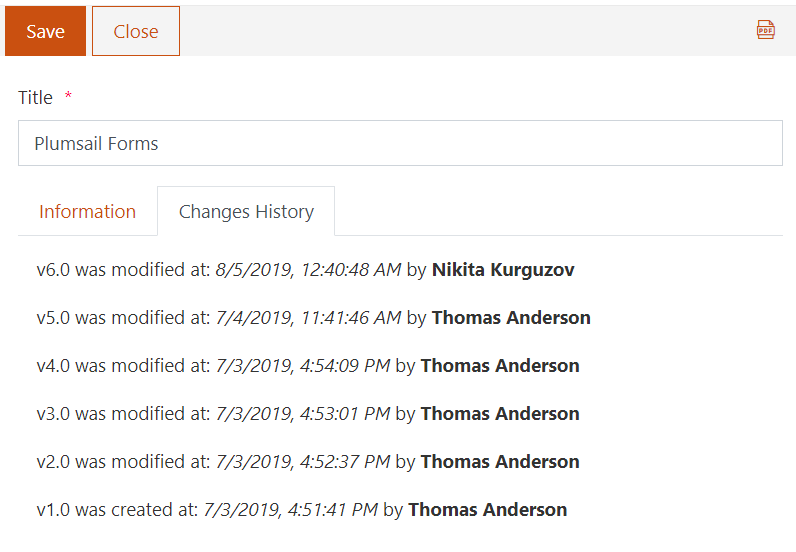
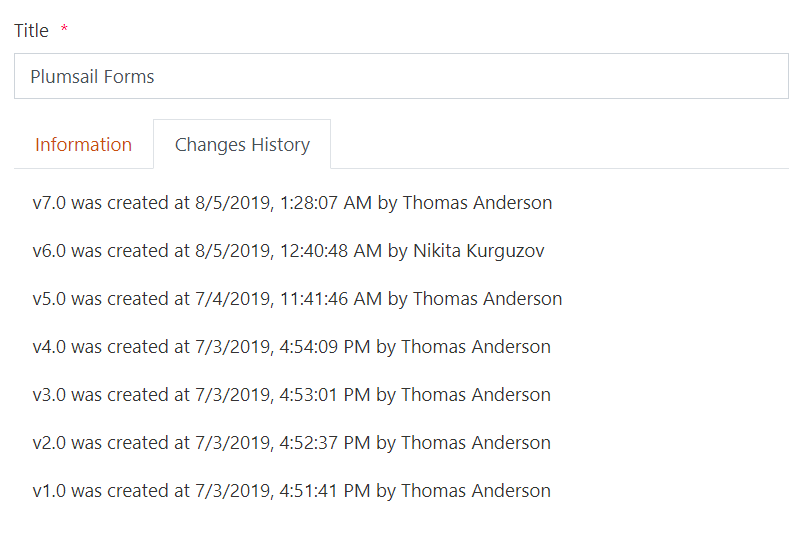
Updated article on VH

diff --git a/SharePoint/how-to/version-history.rst b/SharePoint/how-to/version-history.rst
@@ -1,4 +1,4 @@
-Display version history on the form
+Display version history with Vue components
 =================================================================================================
 
 .. contents:: Contents:
@@ -7,14 +7,9 @@ Display version history on the form
 
 Description
 --------------------------------------------------
-In this article, we'll show you a basic example of how to display version history of an item on the form. You will be able to see who and when modified an item, like this:
+In this article, we'll show you a basic example of how to display version history of an item on the form. You will be able to see who and when modified an item.
 
-|pic0|
-
-.. |pic0| image:: ../images/how-to/version-history/how-to-version-history-0.png
-   :alt: Version history on SharePoint Form
-
-It's also possible to get all the changes info using more advanced JavaScript - more on that later!
+We're also going to showcase Vue components and their potential use.
 
 Form
 --------------------------------------------------
@@ -36,79 +31,106 @@ This HTML control is important - it will contain our Version history, I've used 
 
 .. code-block:: HTML
 
-    <div id='changes'>
-    </div>
+    <version-history />
 
 Copy and paste this code to ensure that the following JS code works for you as well!
 
-JavaScript
+Vue Components
 --------------------------------------------------
-We'll use the following JavaScript code to request all the versions of the current item as soon as it loads, and add a record for each version to our Version history:
+Since our forms are built with Vue.js it's possible to create and mount custom components to the form.
+
+For example, this component will detect who and when made changes to the form and display it in our HTML control:
 
 .. code-block:: javascript
 
-    //listurl and id are retrieved from fd
-    var listUrl = fd.webUrl + fd.listUrl;
-    var id = fd.itemId;
-    fd.spRendered(function(){
-        pnp.sp.web.getList(listUrl)
-        .items.getById(id)
-        .select('*, Versions')
-        .expand('Versions')
-        .get().then(function(results){
-            var versions = results.Versions;
-            for(var i = 0; i < versions.length; i++){
-                var text = "";
-                var currentVersion = versions[i];
-                var label = versions[i].VersionLabel;
-                var date =  "<i>" + new Date(versions[i].Modified).toLocaleString() + "</i>";
-                var editor =  "<b>" + versions[i].Editor.LookupValue + "</b>";
-                if(i == versions.length - 1){
-                    text += "v" + label + " was created at: " + date + " by " + editor;
-                }
-                else{
-                    text += "v" + label + " was modified at: " + date + " by " + editor;
-                }
-                $("#changes").append("<p>" + text +"</p>");
+    Vue.component('version-history', {
+        template: '<div><p v-for="(entry, i) in entries">v{{entry.version}} was created at {{entry.date}} by {{entry.user}}</p></div>',
+        data: function() {
+            return {
+                entries: []
             }
-        });
+        },
+        mounted: function() {
+            var self = this;
+            var listUrl = fd.webUrl + fd.listUrl;
+            var id = fd.itemId;
+            pnp.sp.web.getList(listUrl)
+                .items
+                .getById(id)
+                .versions
+                .get()
+                .then(function(versions){
+                    self.entries = versions.map(function(v) {
+                        return {
+                            version: v.VersionLabel,
+                            date: new Date(v.Modified).toLocaleString(),
+                            user: v.Editor.LookupValue
+                        }
+                    })
+                });	
+        }
     });
 
-This code also pulls information about all the fields, so if you need more data, for example, what fields were changed and what exactly the changes were - that's also doable!
+If you place this code inside JS editor it will automatically mount the component on form load, getting the result like this:
 
-Field value change
+|pic0|
+
+.. |pic0| image:: ../images/how-to/version-history/how-to-version-history-0.png
+   :alt: Version history on SharePoint Form
+
+Field values change
 ************************************************
-The following code will not only detect version change, but will also check Description field for changes, and if it was changed - will display the change:
+The following component will check fields for changes, and if any of observed fields had changed - will display so:
 
 .. code-block:: javascript
 
-    var listUrl = fd.webUrl + fd.listUrl;
-    var id = fd.itemId;
-    fd.spRendered(function(){
-        pnp.sp.web.getList(listUrl)
-        .items.getById(id)
-        .select('*, Versions')
-        .expand('Versions')
-        .get().then(function(results){
-            var versions = results.Versions;
-            for(var i = 0; i < versions.length; i++){
-                var text = "";
-                var currentVersion = versions[i];
-                var label = versions[i].VersionLabel;
-                var description = versions[i].Description;
-                if(i == versions.length - 1){
-                    text += "v" + label + " was created";
-                    text += " - Description: " + description;
-                }
-                else{
-                    text += "v" + label + " was modified";
-                    if(description != versions[i + 1].Description){
-                        text += " - New description: " + description;
-                    }
-                }
-                $("#changes").append("<p>" + text +"</p>");
+    var observableFields = ['Title', 'VersionNumber', 'Description', 'Tags'];
+
+    Vue.component('version-history', {
+        template: '<div><p v-for="(entry, i) in entries">{{entry.user}} modified {{entry.fields}} at {{entry.date}}</p></div>',
+        data: function() {
+            return {
+                entries: []
             }
-        });
+        },
+        mounted: function() {
+            var self = this;
+            var listUrl = fd.webUrl + fd.listUrl;
+            var id = fd.itemId;
+            pnp.sp.web.getList(listUrl)
+                .items
+                .getById(id)
+                .versions
+                .get()
+                .then(function(versions){
+                    var prevValues = {};
+                
+                    self.entries = versions
+                        .reverse()
+                        .map(function(v) {
+                            var changedFields = [];
+                            observableFields.forEach(function (f) {
+                                var curValue = JSON.stringify(v[f]);
+                                if (prevValues[f] !== curValue) {
+                                    changedFields.push(f);
+                                    prevValues[f] = curValue;
+                                }
+                            })
+                            
+                            if (changedFields.length > 0) {
+                                return {
+                                    fields: changedFields.join(', '),
+                                    date: new Date(v.Modified).toLocaleString(),
+                                    user: v.Editor.LookupValue
+                                }
+                            }
+                            
+                            return null;
+                        })
+                        .filter(function(v) { return Boolean(v) })
+                        .reverse();
+                });	
+        }
     });
 
 And here's how it will look like in SharePoint:
@@ -116,31 +138,4 @@ And here's how it will look like in SharePoint:
 |pic3|
 
 .. |pic3| image:: ../images/how-to/version-history/how-to-version-history-3.png
-   :alt: Description changes in Version history
-
-Experiment
-************************************************
-Feel free to experiment to achieve the results you are looking for!
-
-This code will give you access to all Versions inside the console:
-
-.. code-block:: javascript
-
-    var listUrl = fd.webUrl + fd.listUrl;
-    var id = fd.itemId;
-    fd.spRendered(function(){
-        pnp.sp.web.getList(listUrl)
-        .items.getById(id)
-        .select('*, Versions')
-        .expand('Versions')
-        .get().then(function(results){
-            console.log(results.Versions);
-        });
-    });
-
-So you can dig in and see what's available for yourself:
-
-|pic4|
-
-.. |pic4| image:: ../images/how-to/version-history/how-to-version-history-4.png
-   :alt: Version history in browser's console
+   :alt: Field changes in Version history
